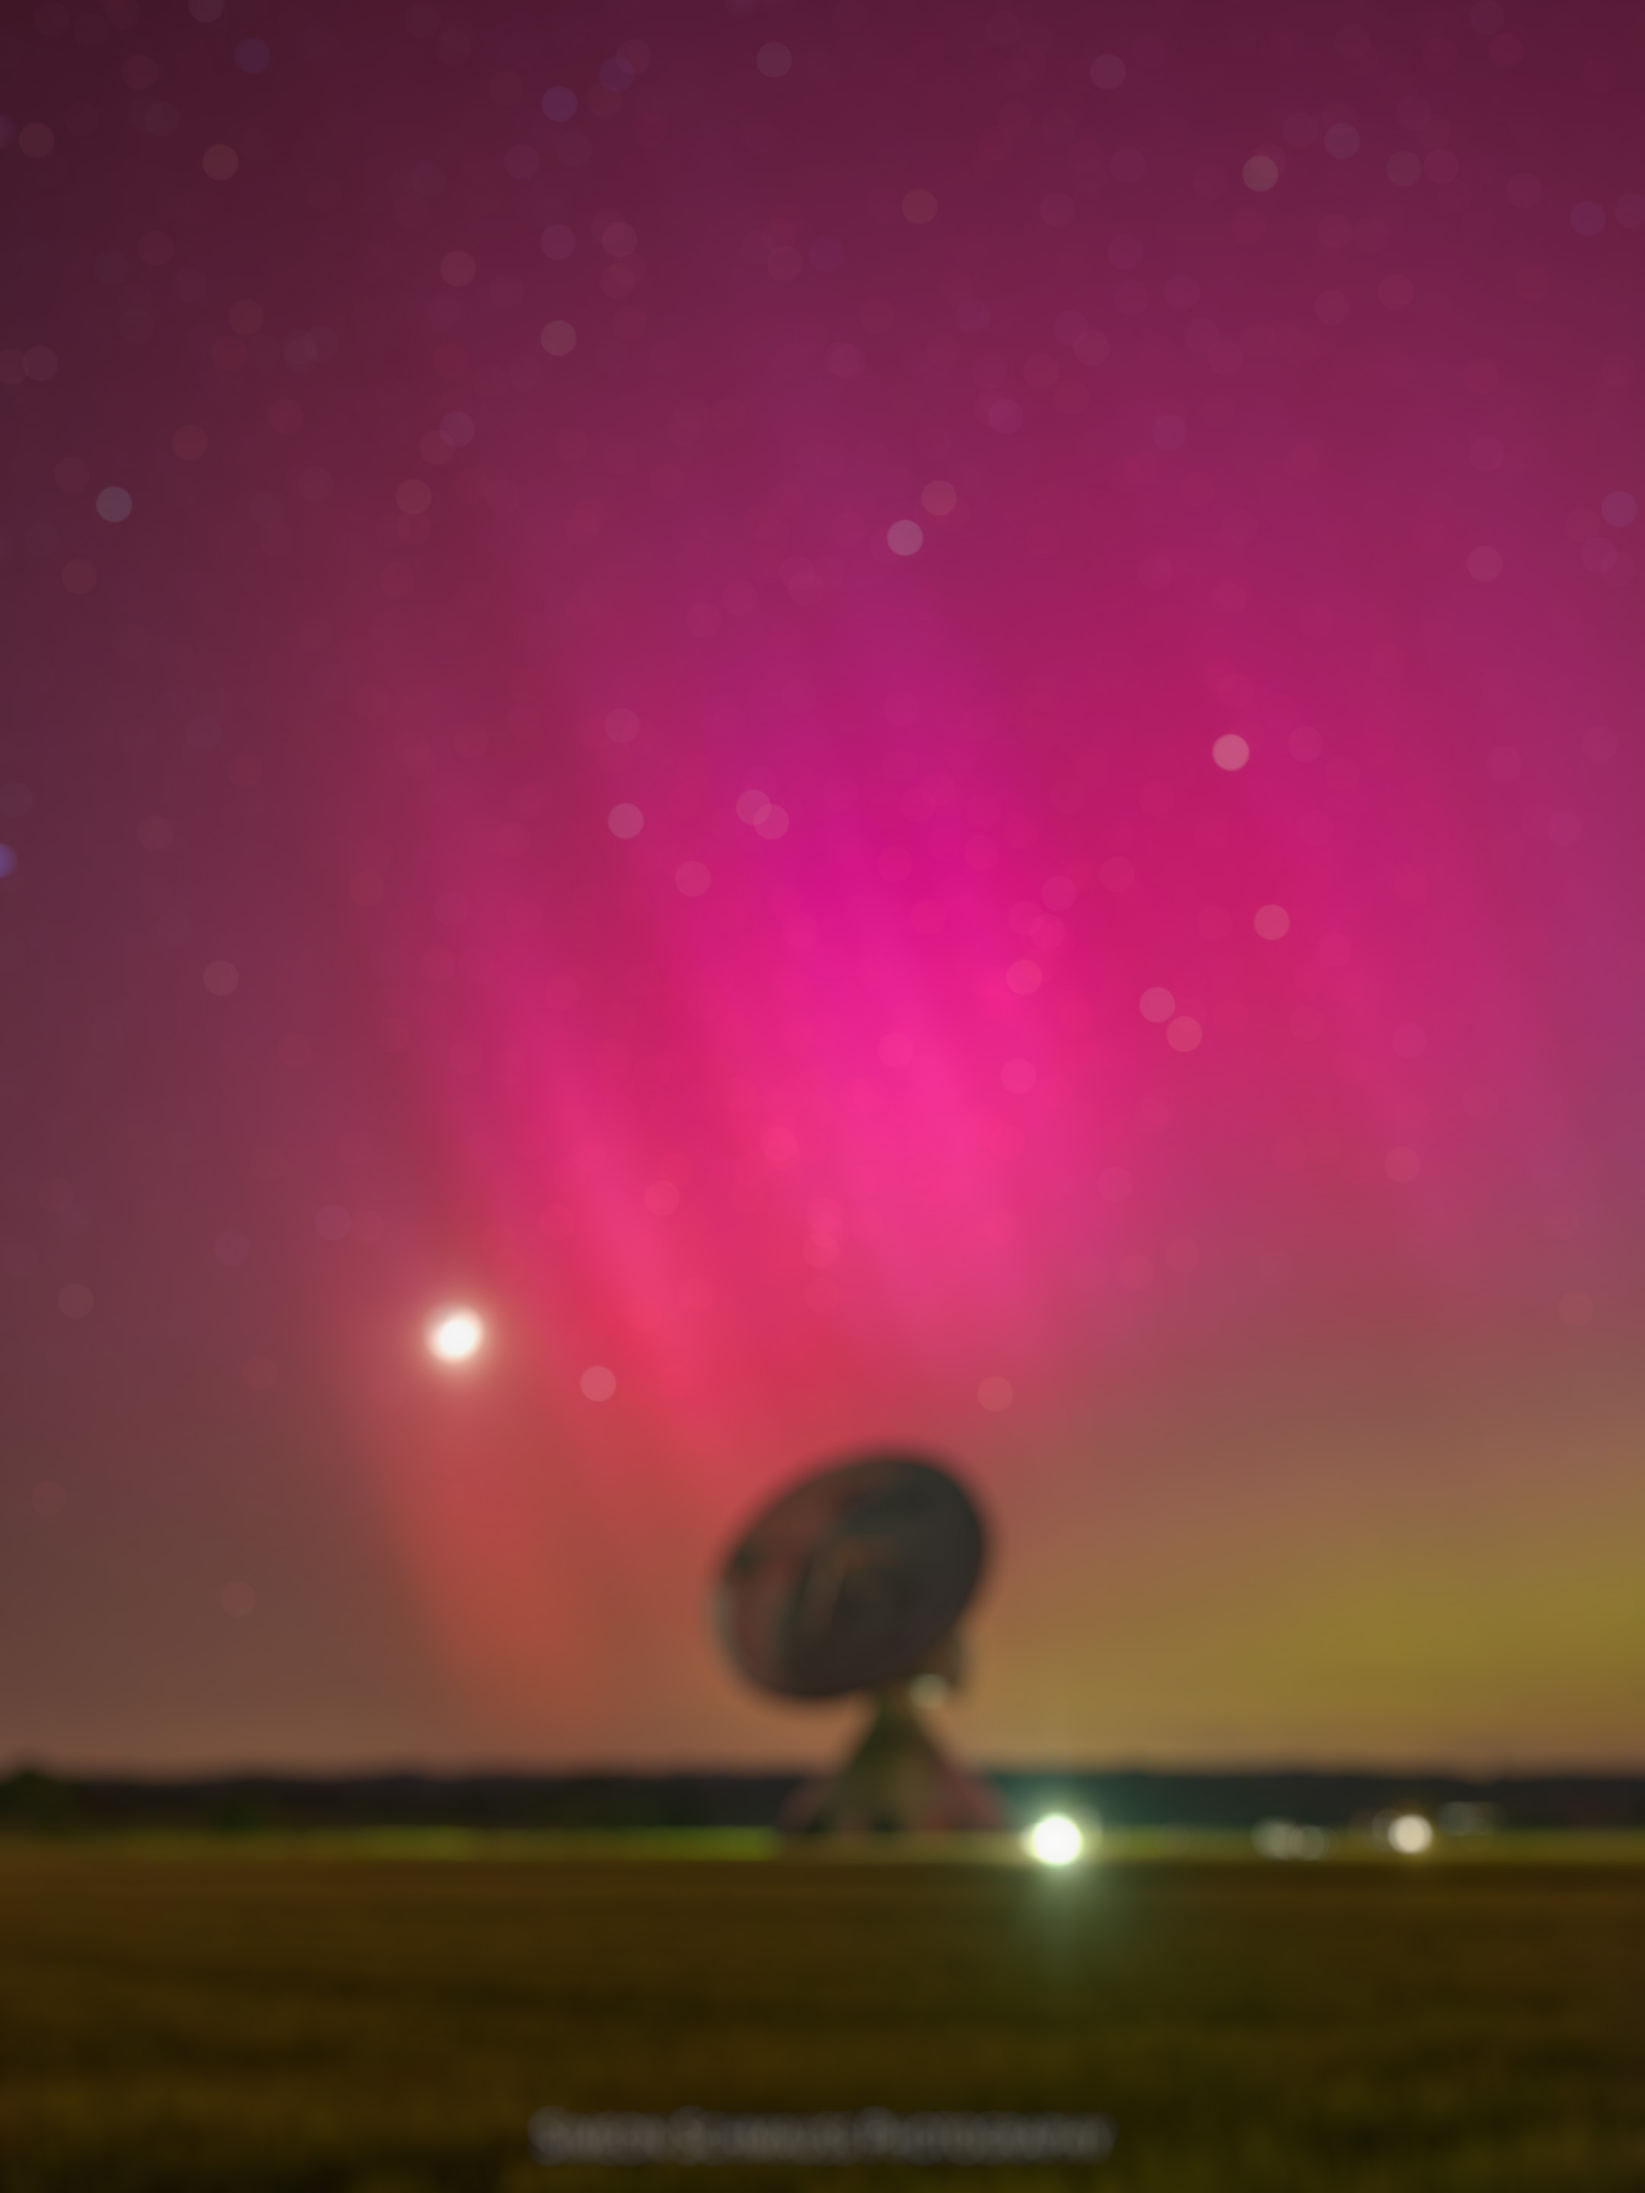
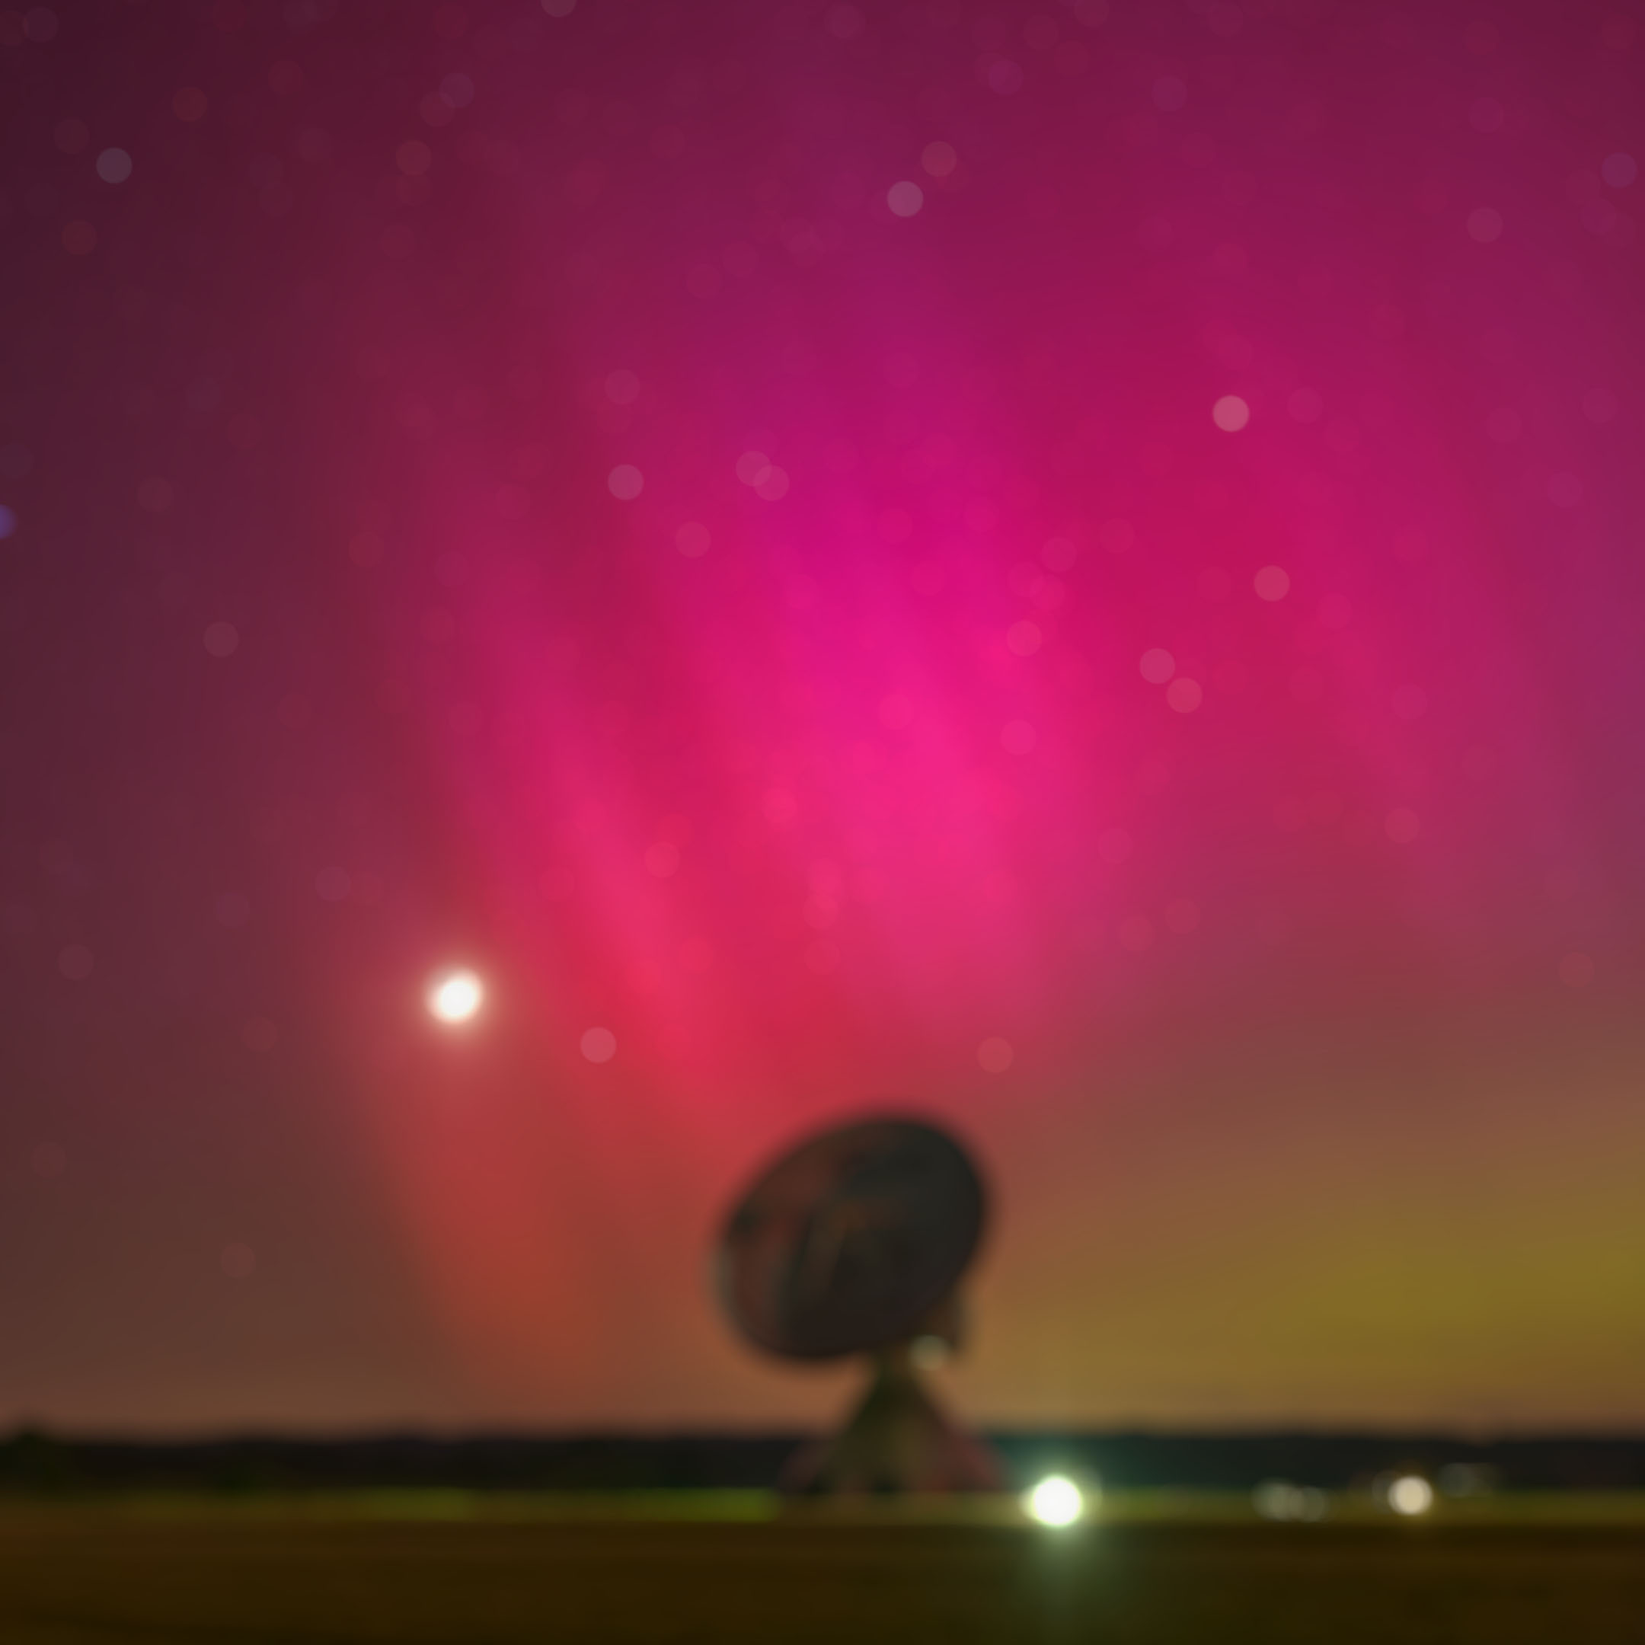
update background image

diff --git a/links/assets/css/style.css b/links/assets/css/style.css
@@ -7,7 +7,7 @@
 
 body {
     /* background-color: rgb(243, 242, 242); */
-    background: url("../images/background.jpg") no-repeat center center fixed;
+    background: url("../images/background.jpg") no-repeat center bottom fixed;
     background-size: cover;
     /* backdrop-filter: blur(5px); */
 }
